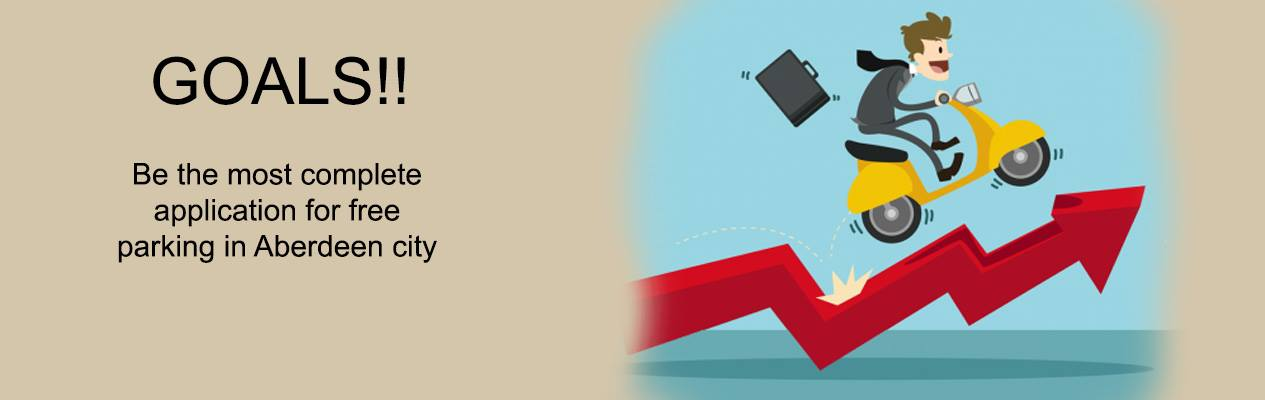
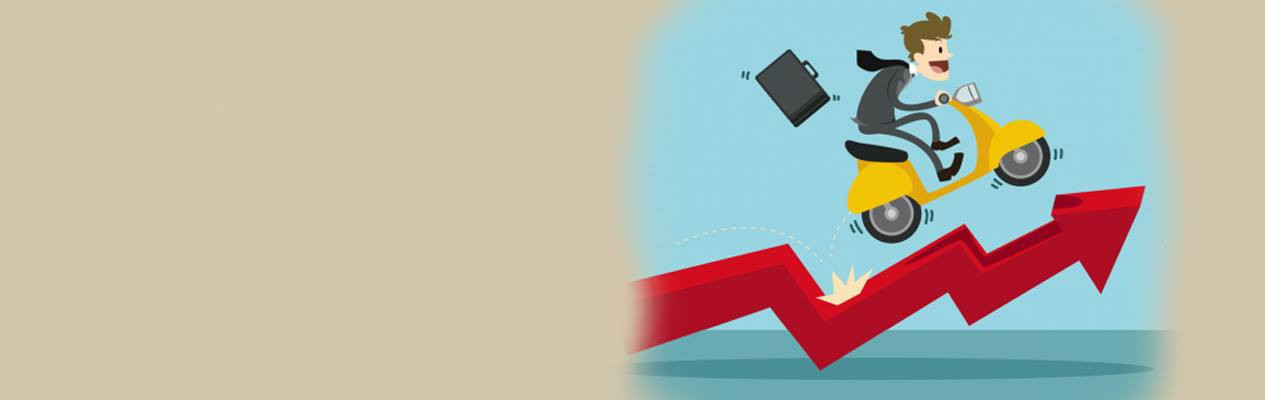
Improved accessibility of about page. Replaced the text in the images with slide text over the image (visit the about page i cant be bothered explaining more) and improved the alt tags to describe the images

diff --git a/experiments/bootstrap/public/scripts/styles.css b/experiments/bootstrap/public/scripts/styles.css
@@ -107,3 +107,11 @@ body {
 #closeSearch {
 	float:right;
 }
+
+/* Slide content */
+.slidetext {
+	width:45%;
+	font-style:200%;
+	position:absolute;
+	color:#000000;
+}
